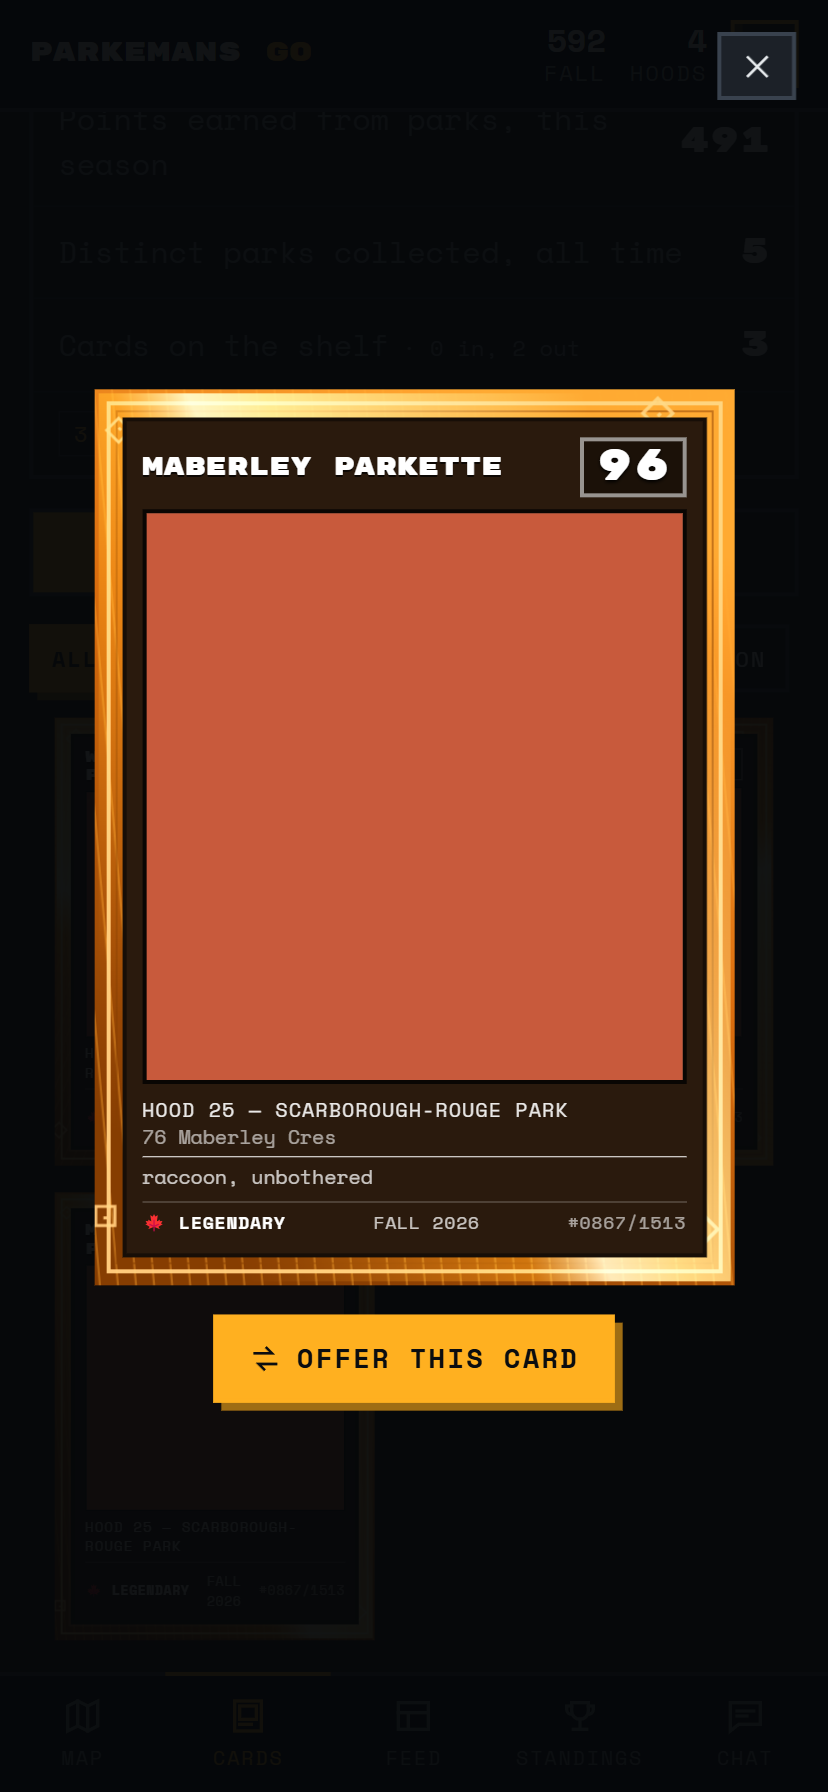
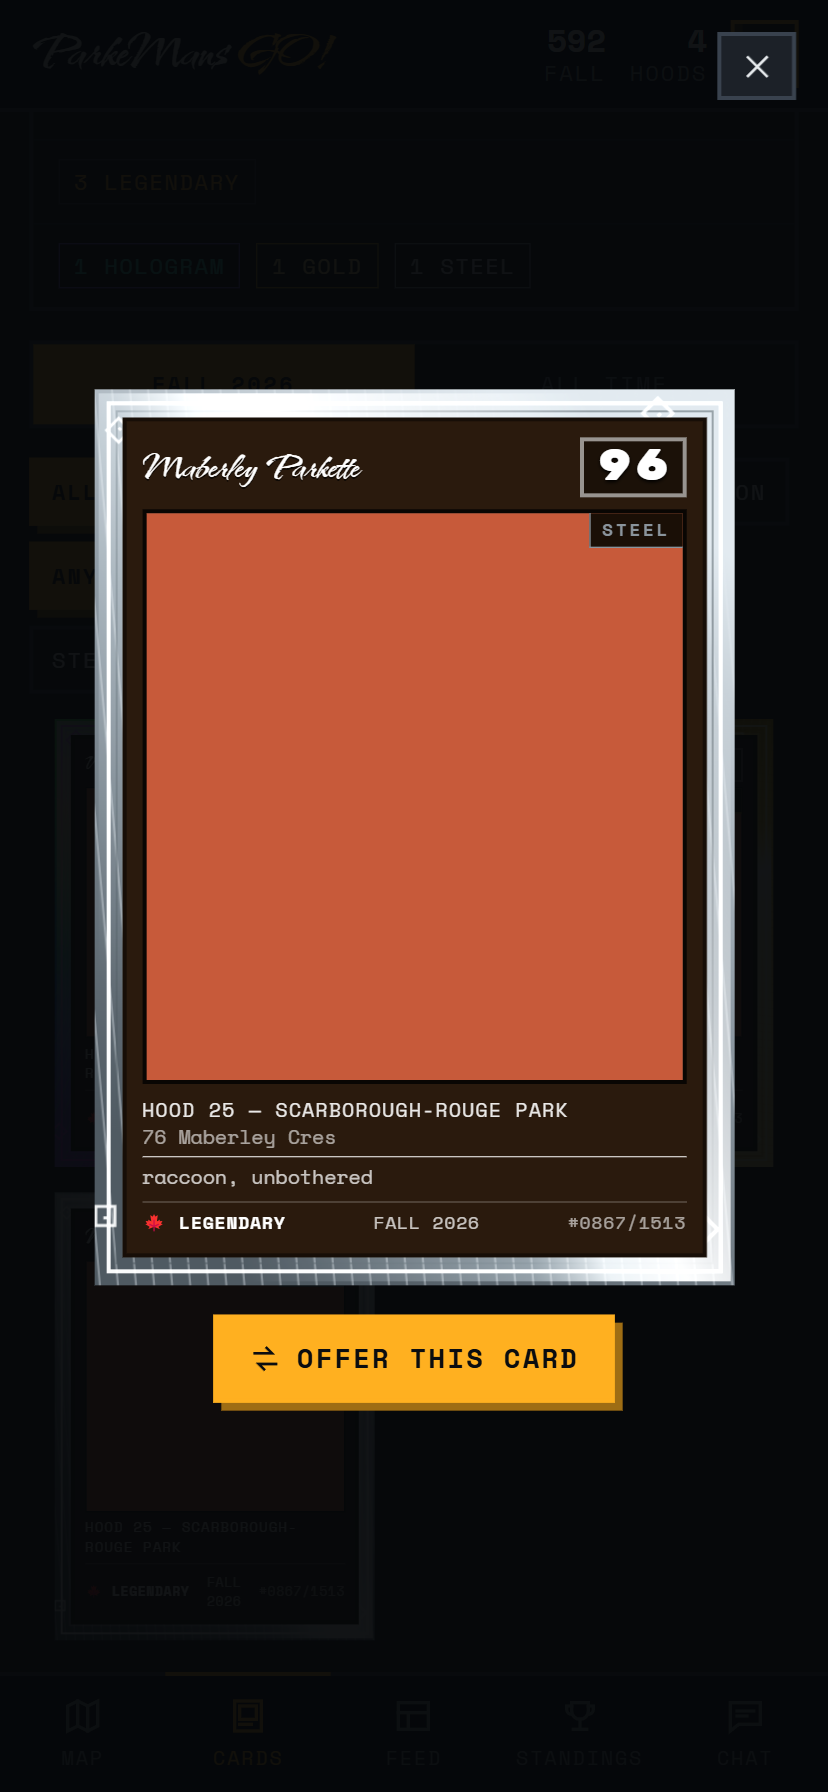
Set the card titles in the brush face too
A park name is the title of the object you are holding, so it gets the same
hand as the app's own mark. `.pcard-name` moves to --wordmark and, because a
script wants neither, drops the tracking and any uppercasing — park names
arrive from the City in title case, which turns out to be what the face wanted
all along. Set at roughly twice the old size, since a script sits small on its
em box.

0.9rem on a compact card, not 0.95: at the larger size the longest park names
in the set came a pixel short of fitting two lines. Measured rather than eyed,
across the full card, a compact card and a 38-character name.

--display still owns every heading, the map's Hood numbers and every .num. A
brush face on a table header or a two-digit map label would be unreadable,
which remains the whole reason there are two tokens.

While in here, finished the naming pass the rename left behind: the profile's
rules list still said "Parkemans GO" to players, and a dozen comments, the
schema header and the spec's §1.8 heading still used it for the sub-game, which
is now just "parks" (the app took the name). The spec also still told people to
tap a button called Parkemans GO — that wording changed two commits ago. The
only two mentions left are the deliberate ones quoting the old label to explain
why it changed.

251 tests pass. README screenshots re-shot, since every card in them changed.

Claude-Session: https://claude.ai/code/session_01QC6KjMJKfjpDaLxPUNGwgz

Changed region(s): [[0.0906, 0.2188, 0.9058, 0.7188]]

diff --git a/web/src/styles.css b/web/src/styles.css
@@ -767,7 +767,7 @@ button, input, select, textarea { font: inherit; color: inherit; }
   }
 }
 
-/* ── Parkemans GO ───────────────────────────────────────────────────────────
+/* ── Park cards ─────────────────────────────────────────────────────────────
    The collectable card. The frame is an inline SVG behind everything; this
    lays the photo, the plate and the footer on top of it. Sizes are fixed in
    px because a trading card has a physical size in your head — it should not
@@ -804,16 +804,24 @@ button, input, select, textarea { font: inherit; color: inherit; }
 .pcard-name {
   flex: 1;
   min-width: 0;
-  font-family: var(--display);
-  font-size: 0.78rem;
-  line-height: 1.15;
+  /* The card's title, in the same brush as the app's own name. A script face sits
+     small on its em box, so this is set roughly twice the size the blocky face was —
+     and with no tracking and no uppercasing, because both wreck a script. Park names
+     arrive from the City in title case, which is what the face wants anyway. */
+  font-family: var(--wordmark);
+  font-size: 1.55rem;
+  line-height: 1;
+  letter-spacing: 0;
+  text-transform: none;
   overflow: hidden;
   display: -webkit-box;
   -webkit-line-clamp: 2;
   -webkit-box-orient: vertical;
   text-shadow: 0 1px 0 rgba(0, 0, 0, 0.7);
 }
-.pcard-compact .pcard-name { font-size: 0.5rem; -webkit-line-clamp: 2; }
+/* 0.9rem, not 0.95: at the larger size the longest park names in the set ("Scarborough
+   Heights Waterfront Parkette") came a pixel short of fitting two lines. */
+.pcard-compact .pcard-name { font-size: 0.9rem; -webkit-line-clamp: 2; }
 
 .pcard-value {
   flex: none;

diff --git a/test/parks.test.js b/test/parks.test.js
@@ -1,4 +1,4 @@
-// Parkemans GO: the collection rules, the card seed, and how park points join the score.
+// Parks: the collection rules, the card seed, and how park points join the score.
 import { test, before, beforeEach, describe } from 'node:test';
 import assert from 'node:assert/strict';
 import fs from 'node:fs';
@@ -194,7 +194,7 @@ describe('a Hood\'s parks', () => {
 
   test('progress hangs off the Hood itself, which is where the sheet reads it', async () => {
     // Regression: this lived on hood.viewer.parks for one release, and the
-    // "Play Parkemans GO" button — which reads hood.parks — silently never rendered.
+    // parks button — which reads hood.parks — silently never rendered.
     const { listHoods } = await import('../server/lib/views.js');
     collect(9003, alice);
 

diff --git a/web/src/screens/Profile.jsx b/web/src/screens/Profile.jsx
@@ -162,7 +162,7 @@ export default function Profile() {
                     is worth a big bonus.</li>
                 <li>Losing a Hood costs you nothing. Points are never taken back.</li>
                 <li>{rules.flag_threshold} flags revert a claim and cancel its points.</li>
-                <li><b>Parkemans GO:</b> every Toronto park has a sign with its name on it.
+                <li><b>Parks:</b> every Toronto park has a sign with its name on it.
                     Photograph one and you collect that park for a card, worth 5 to 100 by
                     how far out it is. Each park once a season, nobody competes over them,
                     and the points go straight into your total.</li>

diff --git a/scripts/import-parks.js b/scripts/import-parks.js
@@ -6,7 +6,7 @@
 //   --file   use a local copy of the parks GeoJSON instead of fetching
 //   --hoods  ward boundaries to assign against (default: web/public/hoods.min.geojson)
 //
-// Parkemans GO needs three things per park: a name (it is on the sign, which is what you
+// The parks game needs three things per park: a name (it is on the sign, which is what you
 // photograph), a location, and the Hood it belongs to. The city's
 // `parks-and-recreation-facilities` dataset gives the first two directly; the third comes
 // from a point-in-polygon test against the ward boundaries.

diff --git a/server/db.js b/server/db.js
@@ -33,7 +33,7 @@ const migrations = db.transaction(() => {
   const addedDifficulty = addColumn('hoods', 'difficulty', 'INTEGER NOT NULL DEFAULT 25');
   addColumn('hoods', 'escalations', 'INTEGER NOT NULL DEFAULT 0');
 
-  // Parkemans GO rides in the claims ledger, so park collections need two columns there.
+  // Park collections ride in the claims ledger, so they need two columns there.
   addColumn('claims', 'park_id', 'INTEGER REFERENCES parks(id)');
   addColumn('claims', 'card_seed', 'TEXT');
   addColumn('parks', 'set_number', 'INTEGER');

diff --git a/server/lib/views.js b/server/lib/views.js
@@ -270,7 +270,7 @@ export function leaderboard(seasonId = null) {
       conquers: kinds[p.id]?.conquer ?? 0,
       steals: kinds[p.id]?.steal ?? 0,
       reinforces: kinds[p.id]?.reinforce ?? 0,
-      // Parkemans GO points count toward the same total, but it is worth seeing the
+      // Park points count toward the same total, but it is worth seeing the
       // split: somebody can be top of the table without holding a single Hood.
       parks: kinds[p.id]?.park ?? 0,
       xp: xpByPlayer[p.id] ?? 0,

diff --git a/test/api.test.js b/test/api.test.js
@@ -463,7 +463,7 @@ describe('the API end to end', () => {
     assert.ok(data.messages.some((m) => m.body === 'that was my nephew' && m.handle === 'bob'));
   });
 
-  // ── Parkemans GO over HTTP: collecting, and reading somebody else's binder ──
+  // ── Parks over HTTP: collecting, and reading somebody else's binder ──
   //
   // Binders are public on purpose (spec §1.8): nobody competes over parks, so a
   // collection costs no one anything and is worth showing off. These tests pin down

diff --git a/web/src/screens/Parkemans.jsx b/web/src/screens/Parkemans.jsx
@@ -1,4 +1,4 @@
-// Parkemans GO, scoped to one Hood. Reached from the Hood sheet on the main map.
+// Parks, scoped to one Hood. Reached from the Hood sheet on the main map.
 //
 // Two ways to look at the same ~60 parks: pins on a map for when you are out walking,
 // and a list sorted by value for when you are planning a route. The list is the default

diff --git a/web/src/lib/api.js b/web/src/lib/api.js
@@ -65,7 +65,7 @@ export const api = {
   champion: () => request('/leaderboard/champion'),
   seasons: () => request('/seasons'),
 
-  // Parkemans GO
+  // Parks
   parksInHood: (hoodId) => request(`/hoods/${hoodId}/parks`),
   park: (id) => request(`/parks/${id}`),
   parkCheck: (id) => request(`/parks/${id}/check`),

diff --git a/server/routes/parks.js b/server/routes/parks.js
@@ -1,4 +1,4 @@
-// Parkemans GO endpoints. The park map is scoped to one Hood, because that is how you
+// Park endpoints. The park map is scoped to one Hood, because that is how you
 // reach it — you tap a Hood, then you play the sub-game inside it.
 import { Router } from 'express';
 import multer from 'multer';

diff --git a/server/lib/parks.js b/server/lib/parks.js
@@ -1,4 +1,4 @@
-// Parkemans GO: the sub-game inside each Hood.
+// Parks: the sub-game inside each Hood, and the app's namesake.
 //
 // Every Toronto park has the same green sign with the park's name on it. You photograph
 // the sign, you collect the park, you get a card. Each park is collectable once per

diff --git a/CLAUDE.md b/CLAUDE.md
@@ -101,7 +101,7 @@ changing one, read the test first — it says why.
   nobody competes over parks, so a card takes nothing from anybody, and comparing pulls
   is most of what makes a card game fun. Territory claims are a different matter — do
   not copy this openness onto anything anyone can lose.
-- **The game is called Parkemans GO.** It was Parkemon until the rename; the only place
+- **The app is called ParkeMans GO!** It was Parkemon, then Parkemans; the only place
   the old spelling survives is the `cth-parkemon:` salt inside `cardSeed()`, which is a
   hash input already baked into every stored `card_seed`. Leave it.
 - **An edition is rolled with fresh randomness, never derived from `card_seed`.** The
@@ -200,7 +200,7 @@ npm test        # 251 tests, no server needed, touches nothing in data/
   winding `hood_state` clocks backwards, not by waiting.
 - `test/api.test.js` — boots the real server on port 8199 against a temp database and
   walks the whole thing over HTTP, including real JPEGs through the sharp pipeline.
-- `test/parks.test.js` — Parkemans GO. Seeds four parks by hand rather than importing
+- `test/parks.test.js` — parks and cards. Seeds four parks by hand rather than importing
   1,513, so the suite never touches the network.
 - `test/editions.test.js` — Steel / Gold / Hologram: the roll, the per-Hood hologram cap,
   and that none of it can move a single point.
@@ -274,7 +274,7 @@ There is no linter and no CI. Validate frontend changes by running the app
   pushed Collect and Conquer clean past the bottom edge. `min-height: 0` on
   `.bottom-sheet > .sheet-body` is what lets the body shrink and scroll instead of
   growing and shoving the footer out; without it the bug returns exactly as it was.
-  Both actions on the Hood sheet belong there too — the claim *and* Play Parkemans GO,
+  Both actions on the Hood sheet belong there too — the claim *and* the parks button,
   which sits under it and was therefore the first thing to disappear.
 - **The bottom of the screen is not yours, and its height cannot be guessed.** A
   `position: fixed; bottom: 0` element anchors to the **layout** viewport, which on iOS
@@ -300,12 +300,17 @@ There is no linter and no CI. Validate frontend changes by running the app
 
 ## Visual style
 
-**The wordmark is the only thing set in Kolker Brush.** `--wordmark` exists so the brush
-script stays on the app's name; `--display` (Rubik Mono One) still sets every heading,
-the map's Hood numbers and every `.num`. Putting a brush face on a table header or a
-two-digit map label would be unreadable, which is the whole reason there are two tokens.
-The font is self-hosted in `web/public/fonts` with its OFL licence beside it, like the
-other two — nothing here fetches a font at run time.
+**Kolker Brush is for the wordmark and the card titles, and nothing else.** `--wordmark`
+holds the brush face; `--display` (Rubik Mono One) still sets every heading, the map's
+Hood numbers and every `.num`, because a brush face on a table header or a two-digit map
+label would be unreadable. The card title is the other place a script belongs: it is the
+name of the object you are holding, it echoes the app's own mark, and park names arrive
+from the City in title case, which is what a script wants — so `.pcard-name` also drops
+the tracking and any uppercasing. It is set at roughly twice the size the blocky face
+was, since a script sits small on its em box; `0.9rem` on a compact card is the largest
+that still fits the longest park name in the set across two lines. The font is
+self-hosted in `web/public/fonts` with its OFL licence beside the other two — nothing
+here fetches a font at run time.
 
 "Arctic Classified after dark" — the shintech.online house style inverted for a map-first
 app used outdoors at night. The rules carry over unchanged and `web/src/styles.css`
